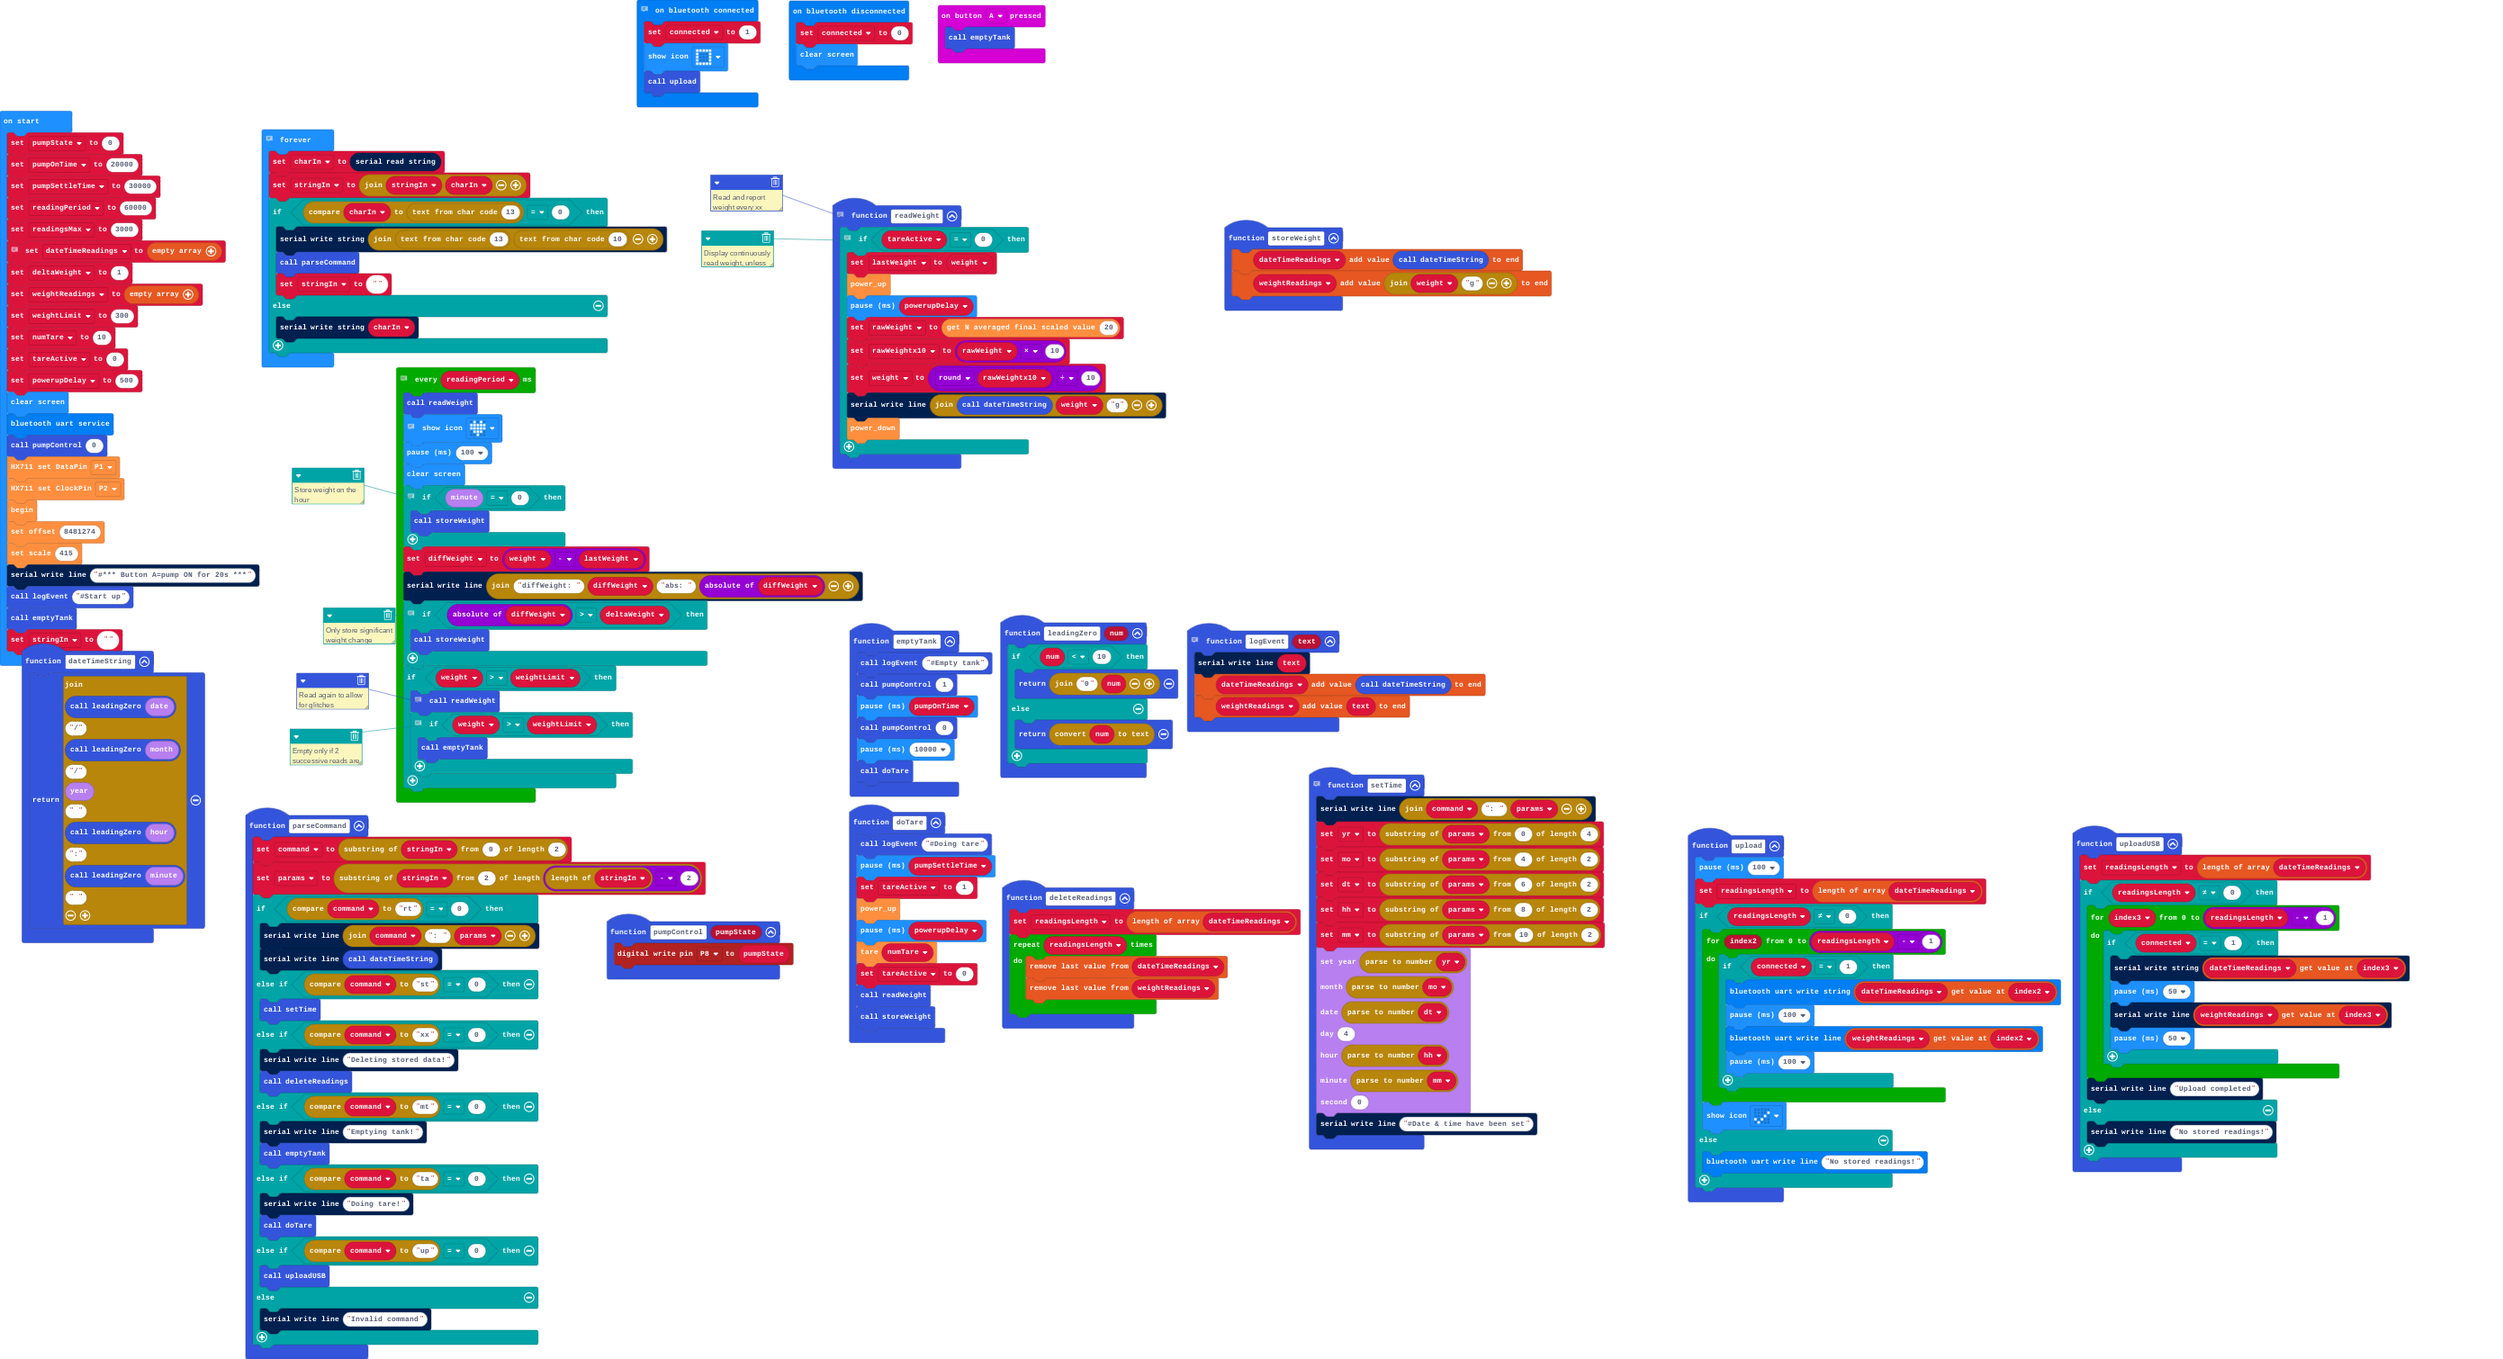
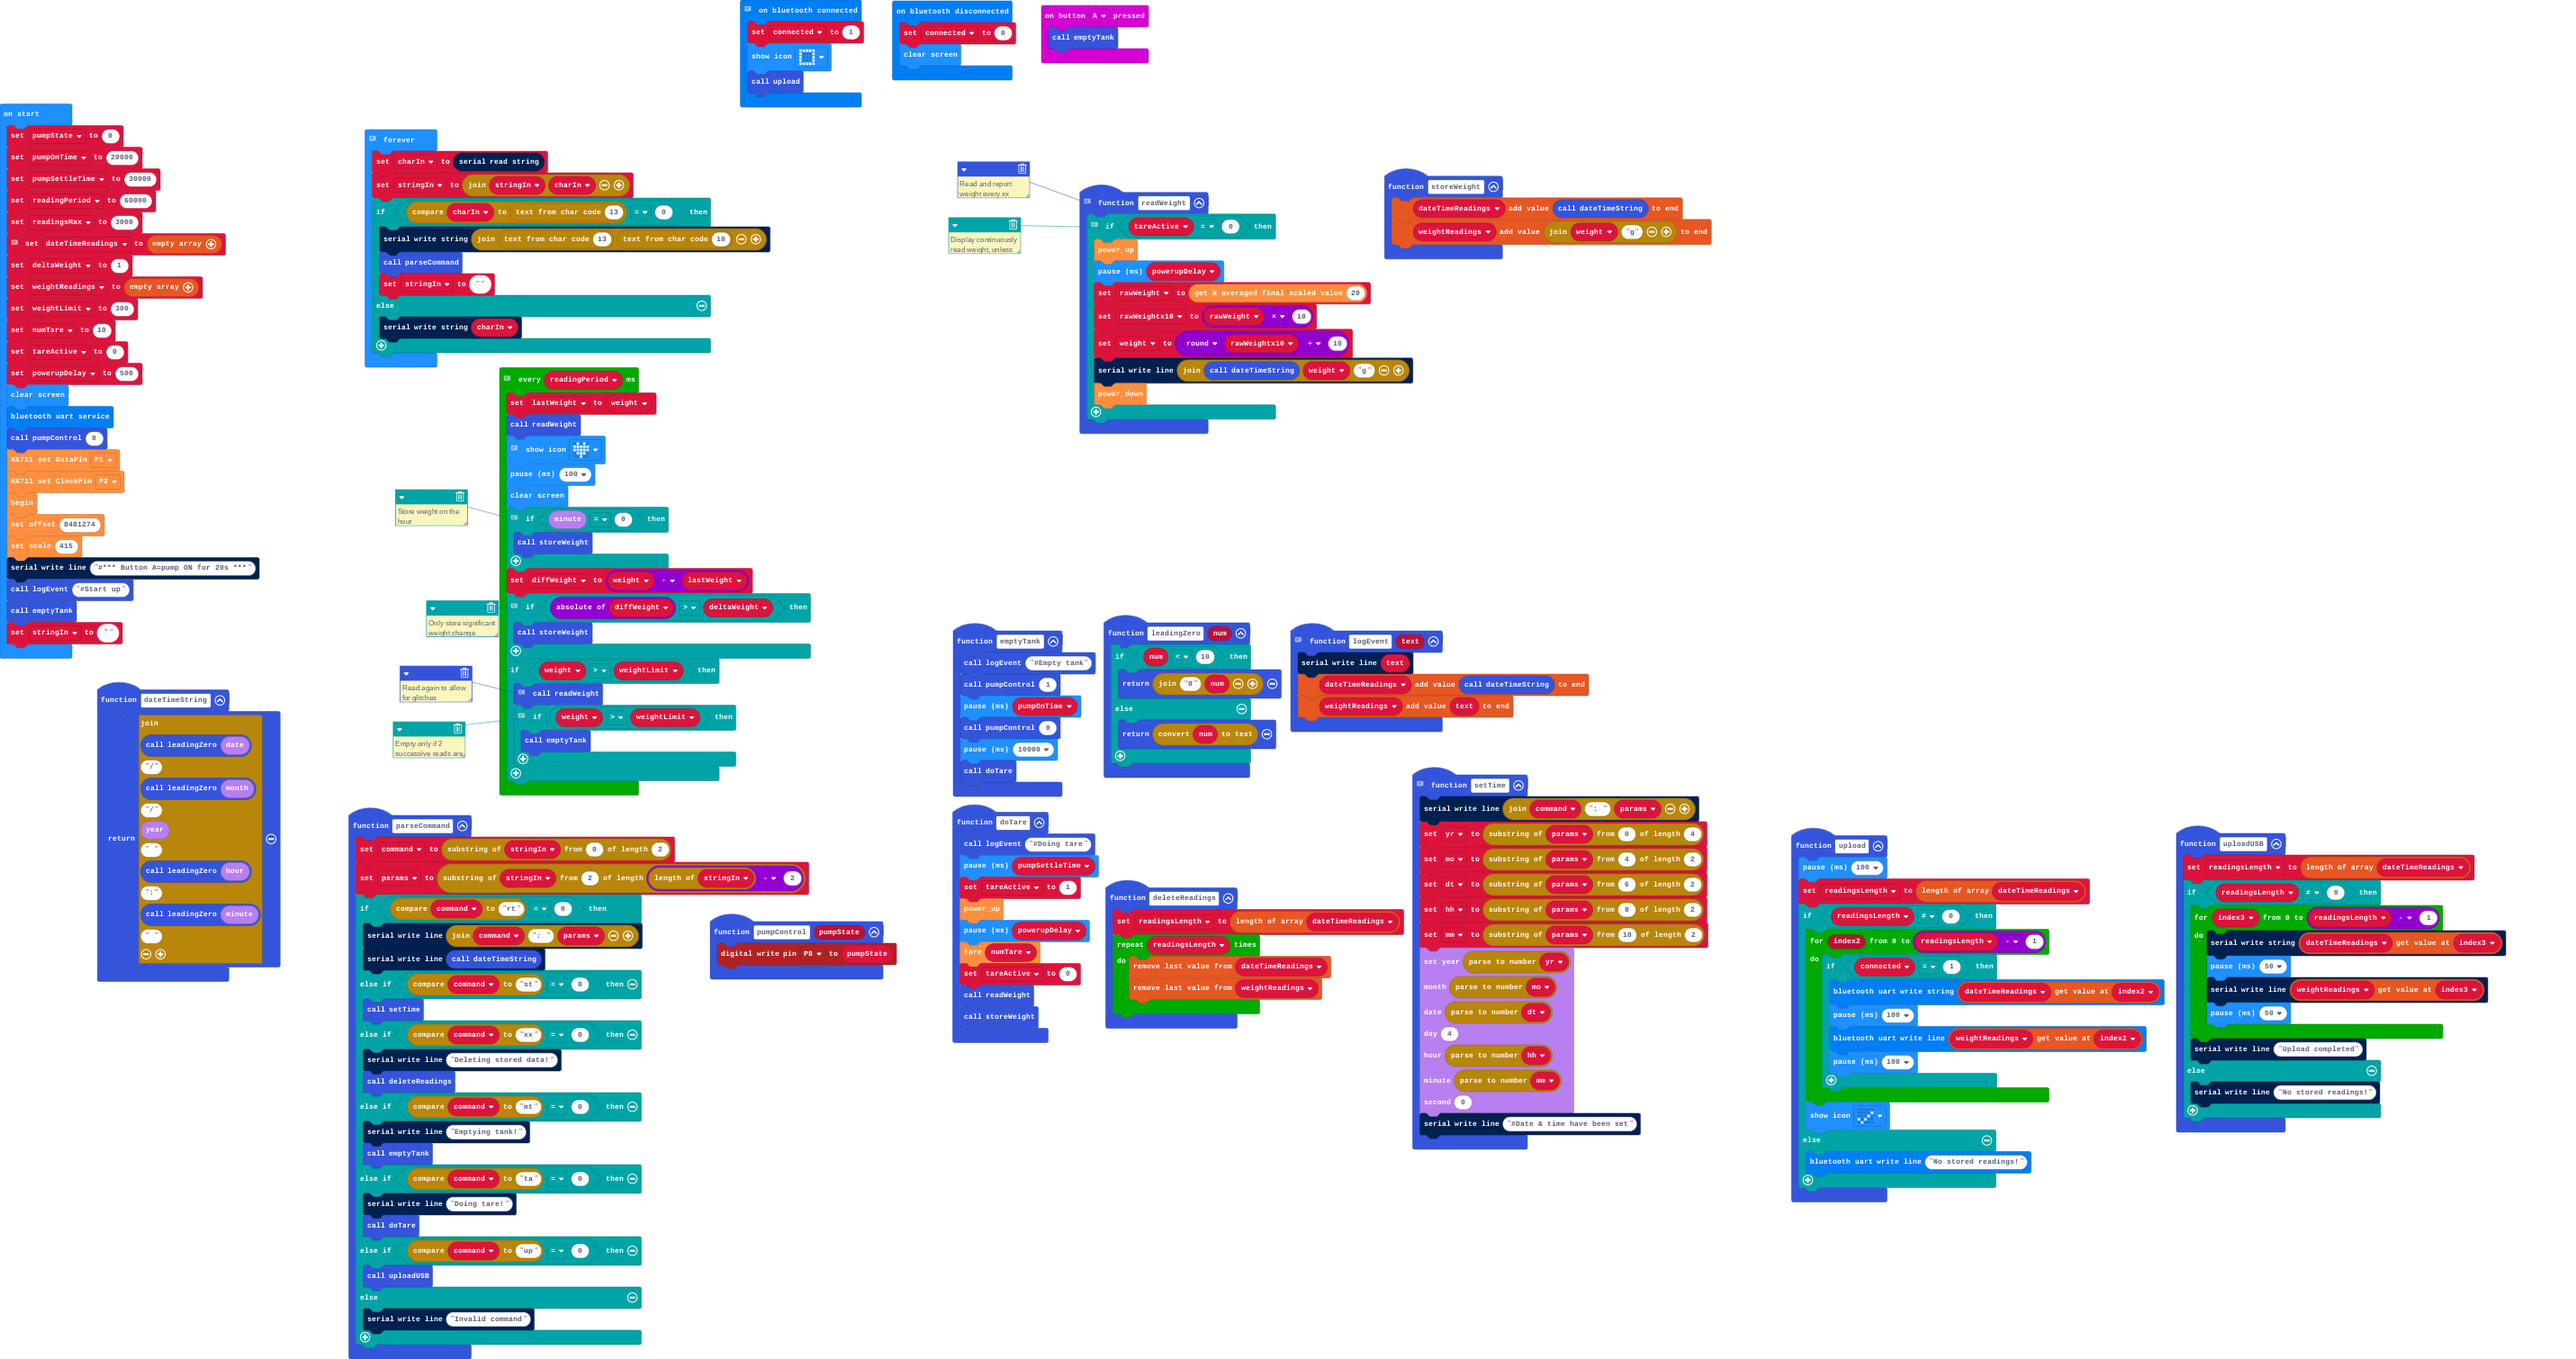
removed debug print, fixed uploadUSB

Changed region(s): [[0.0, 0.0623, 0.9896, 1.0], [0.2474, 0.0, 0.4639, 0.0934]]

diff --git a/main.ts b/main.ts
@@ -66,7 +66,6 @@ input.onButtonPressed(Button.A, function () {
 function readWeight () {
     // Display continuously read weight, unless tare is operating
     if (tareActive == 0) {
-        lastWeight = weight
         HX711.power_up()
         basic.pause(powerupDelay)
         rawWeight = HX711.get_units(20)
@@ -129,12 +128,10 @@ function uploadUSB () {
     readingsLength = dateTimeReadings.length
     if (readingsLength != 0) {
         for (let index3 = 0; index3 <= readingsLength - 1; index3++) {
-            if (connected == 1) {
-                serial.writeString(dateTimeReadings[index3])
-                basic.pause(50)
-                serial.writeLine("" + (weightReadings[index3]))
-                basic.pause(50)
-            }
+            serial.writeString(dateTimeReadings[index3])
+            basic.pause(50)
+            serial.writeLine("" + (weightReadings[index3]))
+            basic.pause(50)
         }
         serial.writeLine("Upload completed")
     } else {
@@ -150,16 +147,16 @@ function emptyTank () {
     doTare()
 }
 let diffWeight = 0
+let lastWeight = 0
 let charIn = ""
 let mm = ""
 let hh = ""
 let dt = ""
 let mo = ""
 let yr = ""
+let weight = 0
 let rawWeightx10 = 0
 let rawWeight = 0
-let weight = 0
-let lastWeight = 0
 let connected = 0
 let readingsLength = 0
 let params = ""
@@ -211,6 +208,7 @@ basic.forever(function () {
 })
 // Read the weight
 loops.everyInterval(readingPeriod, function () {
+    lastWeight = weight
     readWeight()
     // Brief heartbeat
     basic.showIcon(IconNames.Heart)
@@ -221,7 +219,6 @@ loops.everyInterval(readingPeriod, function () {
         storeWeight()
     }
     diffWeight = weight - lastWeight
-    serial.writeLine("diffWeight: " + diffWeight + "abs: " + Math.abs(diffWeight))
     // Only store significant weight change
     if (Math.abs(diffWeight) > deltaWeight) {
         storeWeight()
